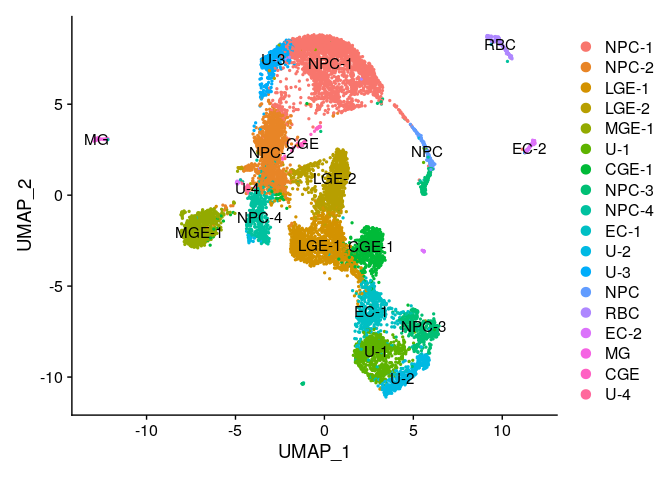
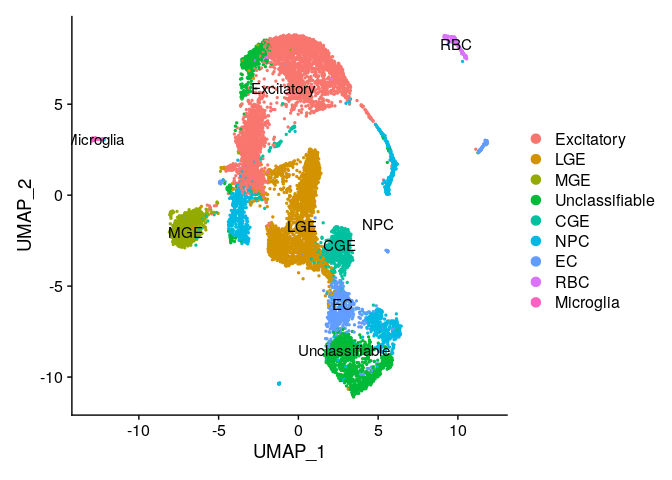
:recycle: rename clusters in gw9

diff --git a/code/05_seurat_annot/05-3_gw9_annot.md b/code/05_seurat_annot/05-3_gw9_annot.md
@@ -110,26 +110,26 @@ data <- RunUMAP(data, dims = 1:dim)
     ## To use Python UMAP via reticulate, set umap.method to 'umap-learn' and metric to 'correlation'
     ## This message will be shown once per session
 
-    ## 10:54:42 UMAP embedding parameters a = 0.9922 b = 1.112
+    ## 15:32:49 UMAP embedding parameters a = 0.9922 b = 1.112
 
-    ## 10:54:42 Read 12176 rows and found 169 numeric columns
+    ## 15:32:49 Read 12176 rows and found 169 numeric columns
 
-    ## 10:54:42 Using Annoy for neighbor search, n_neighbors = 30
+    ## 15:32:49 Using Annoy for neighbor search, n_neighbors = 30
 
-    ## 10:54:42 Building Annoy index with metric = cosine, n_trees = 50
+    ## 15:32:49 Building Annoy index with metric = cosine, n_trees = 50
 
     ## 0%   10   20   30   40   50   60   70   80   90   100%
 
     ## [----|----|----|----|----|----|----|----|----|----|
 
     ## **************************************************|
-    ## 10:54:46 Writing NN index file to temp file /tmp/Rtmp6ylqrD/file9bcf0ed015
-    ## 10:54:46 Searching Annoy index using 1 thread, search_k = 3000
-    ## 10:54:54 Annoy recall = 100%
-    ## 10:54:54 Commencing smooth kNN distance calibration using 1 thread with target n_neighbors = 30
-    ## 10:54:55 Initializing from normalized Laplacian + noise (using irlba)
-    ## 10:54:56 Commencing optimization for 200 epochs, with 576664 positive edges
-    ## 10:55:04 Optimization finished
+    ## 15:32:53 Writing NN index file to temp file /tmp/RtmpNRpayy/filebd9631e733d
+    ## 15:32:53 Searching Annoy index using 1 thread, search_k = 3000
+    ## 15:33:02 Annoy recall = 100%
+    ## 15:33:02 Commencing smooth kNN distance calibration using 1 thread with target n_neighbors = 30
+    ## 15:33:03 Initializing from normalized Laplacian + noise (using irlba)
+    ## 15:33:04 Commencing optimization for 200 epochs, with 576664 positive edges
+    ## 15:33:12 Optimization finished
 
 ``` r
 DimPlot(data, reduction = "umap", label = T)
@@ -429,9 +429,9 @@ degs
 
 ``` r
 new.label <- c(
-  "NPC-1", "NPC-2", "LGE-1", "LGE-2", "MGE-1", "U-1",
-  "CGE-1", "NPC-3", "NPC-4", "EC-1", "U-2", "U-3",
-  "NPC", "RBC", "EC-2", "MG", "CGE", "U-4"
+  "Excitatory", "Excitatory", "LGE", "LGE", "MGE", "Unclassifiable",
+  "CGE", "NPC", "NPC", "EC", "Unclassifiable", "Unclassifiable",
+  "NPC", "RBC", "EC", "Microglia", "CGE", "Unclassifiable"
 )
 ```
 
